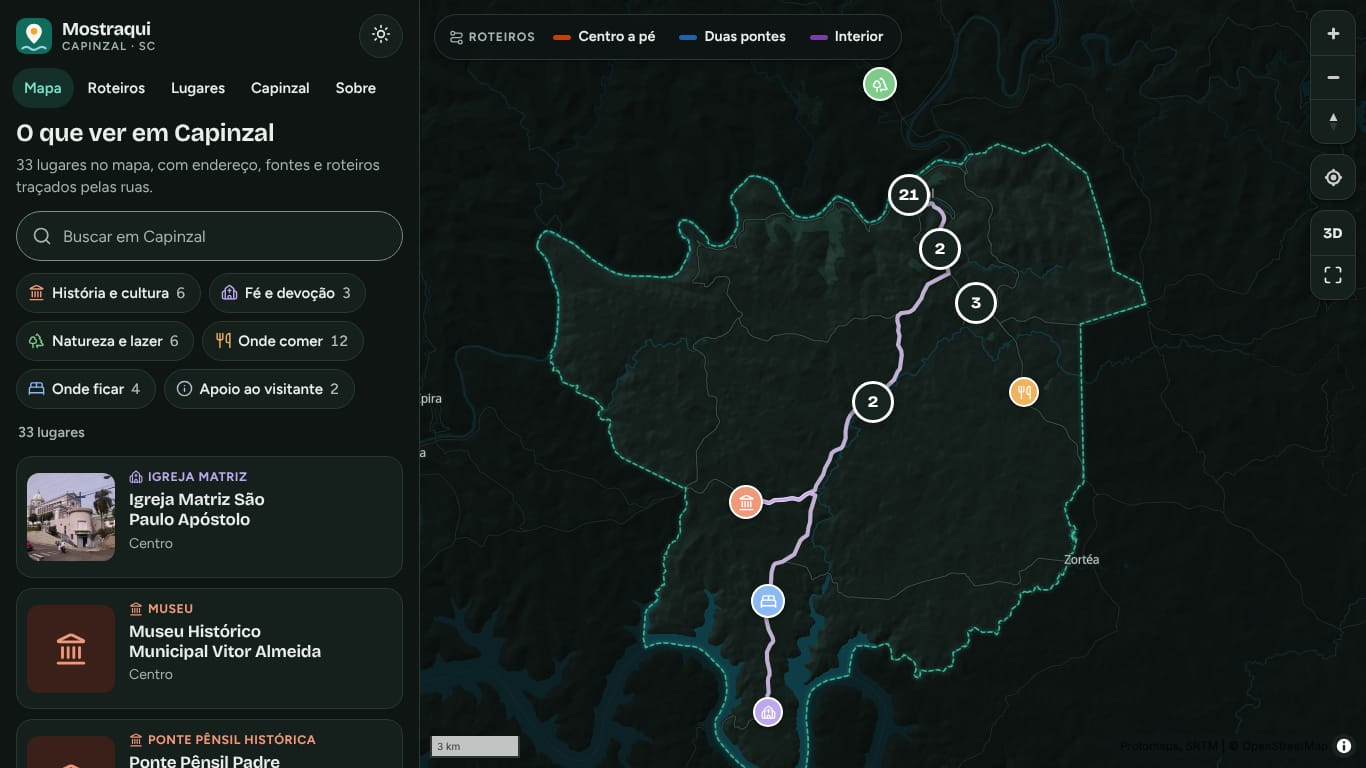
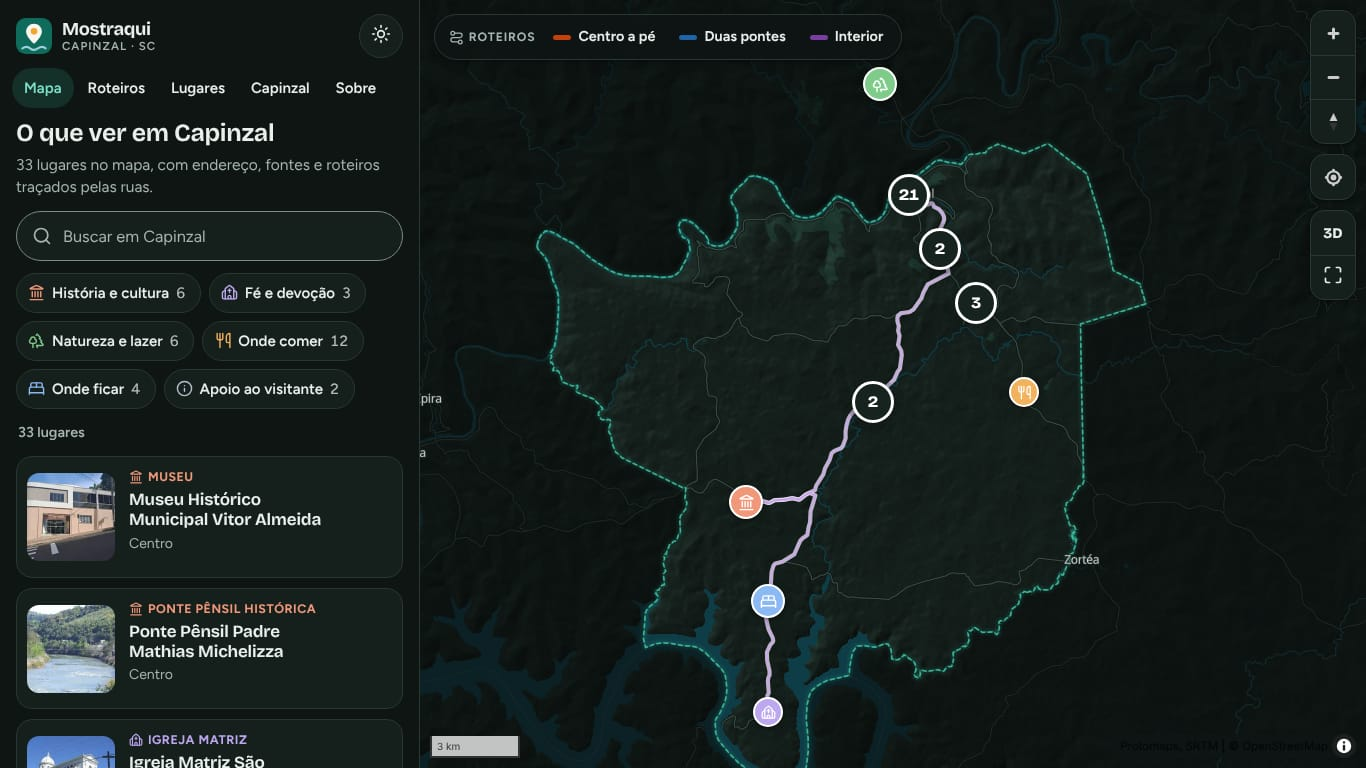
Guia independente, canal de contato, fotos livres e links para fotos no Google Maps
- o site passa a se declarar iniciativa particular, sem vínculo oficial com a
  Prefeitura (rodapé e página Sobre);
- contato@mostraqui.net como canal de correções (rodapé, Sobre e cada lugar);
- 8 fotos de uso livre do Wikimedia Commons em 6 lugares, com autoria e licença;
- lugares sem foto livre ganham o link "Ver fotos no Google Maps" (as fotos de
  terceiros não são copiadas para o site);
- modo sem internet: usa a versão já guardada de uma foto quando a pedida não
  está no aparelho;
- documentação e capturas atualizadas.

Claude-Session: https://claude.ai/code/session_01FvAM6oiWwzEPXf9aMvnGQy

Changed region(s): [[0.0, 0.7812, 0.246, 0.9062], [0.0, 0.5938, 0.246, 0.75], [0.0, 0.9375, 0.246, 1.0]]

diff --git a/scripts/sw-modelo.js b/scripts/sw-modelo.js
@@ -109,12 +109,37 @@ async function paginaDaRedeOuGuardada(pedido) {
 async function guardadoOuRede(pedido, nomeDoCache) {
   const guardado = await caches.match(pedido);
   if (guardado) return guardado;
-  const resposta = await fetch(pedido);
-  if (resposta.ok && resposta.status === 200) {
-    const cache = await caches.open(nomeDoCache);
-    cache.put(pedido, resposta.clone());
+  try {
+    const resposta = await fetch(pedido);
+    if (resposta.ok && resposta.status === 200) {
+      const cache = await caches.open(nomeDoCache);
+      cache.put(pedido, resposta.clone());
+    }
+    return resposta;
+  } catch (erro) {
+    // Sem internet e sem esta versão da foto: usa outra versão da mesma foto que já esteja guardada.
+    if (pedido.destination === 'image') {
+      const substituta = await outraVersaoDaFoto(new URL(pedido.url).pathname);
+      if (substituta) return substituta;
+    }
+    throw erro;
   }
-  return resposta;
+}
+
+/** As versões de uma foto têm o mesmo começo no nome: "ponte.AbC123_" + variante + extensão. */
+async function outraVersaoDaFoto(caminho) {
+  const prefixo = caminho.slice(0, caminho.lastIndexOf('_') + 1);
+  if (!prefixo.startsWith('/assets/') || prefixo === '/assets/') return null;
+  let melhor = null;
+  for (const nome of [CACHE_VISITADOS, CACHE_APP]) {
+    const cache = await caches.open(nome);
+    for (const chave of await cache.keys()) {
+      if (!new URL(chave.url).pathname.startsWith(prefixo)) continue;
+      const dados = await (await cache.match(chave)).blob();
+      if (!melhor || dados.size > melhor.size) melhor = dados;
+    }
+  }
+  return melhor ? new Response(melhor, { headers: { 'Content-Type': melhor.type || 'image/webp' } }) : null;
 }
 
 async function guardadoEAtualiza(pedido) {

diff --git a/src/styles/conteudo.css b/src/styles/conteudo.css
@@ -37,6 +37,8 @@
   text-align: center;
 }
 .sem-foto p { margin: 0; font-size: .9rem; font-weight: 600; }
+.sem-foto p + p { margin-top: 6px; }
+.sem-foto a { display: inline-block; padding: 4px 0; color: inherit; }
 
 .lugar__grade {
   display: grid;
@@ -67,7 +69,7 @@
 .galeria { display: grid; gap: 14px; grid-template-columns: repeat(auto-fit, minmax(min(100%, 260px), 1fr)); margin-top: 28px; }
 .galeria .foto img { aspect-ratio: 4 / 3; object-fit: cover; border-radius: var(--raio); }
 
-.conferido { display: flex; align-items: center; gap: .5em; margin: 0; color: var(--tinta-suave); font-size: .92rem; }
+.conferido { display: flex; align-items: flex-start; gap: .5em; margin: 0; color: var(--tinta-suave); font-size: .92rem; }
 .conferido .icone { color: var(--marca); }
 
 /* ---------- Cartões de roteiro ---------- */

diff --git a/src/lib/dados.ts b/src/lib/dados.ts
@@ -71,6 +71,12 @@ export function linkGoogleMaps(lugar: Lugar): string {
   return `https://www.google.com/maps/dir/?api=1&destination=${encodeURIComponent(destino)}`;
 }
 
+/** Busca do lugar no Google Maps, onde ficam as fotos publicadas por visitantes (o guia não as copia). */
+export function linkFotosGoogle(lugar: Lugar): string {
+  const cidade = lugar.municipio.includes('Capinzal') ? 'Capinzal' : lugar.municipio;
+  return `https://www.google.com/maps/search/?api=1&query=${encodeURIComponent(`${lugar.nome}, ${cidade} SC`)}`;
+}
+
 export function linkWaze(lugar: Lugar): string {
   const [lon, lat] = lugar.coordenadas;
   return `https://waze.com/ul?ll=${lat},${lon}&navigate=yes`;

diff --git a/src/styles/base.css b/src/styles/base.css
@@ -359,7 +359,7 @@ hr { border: 0; border-top: 1px solid var(--linha); margin: 2rem 0; }
 .rodape li + li { margin-top: .2em; }
 .rodape a { color: var(--tinta); }
 .rodape li a { display: inline-block; padding: 3px 0; }
-.rodape__lema { margin: 14px 0 0; max-width: 38ch; }
+.rodape__lema { margin: 14px 0 0; max-width: 40ch; }
 .rodape__nota { margin: 28px 0 0; padding-top: 20px; border-top: 1px solid var(--linha); font-size: .88rem; }
 
 /* Barra de abas no celular (como em um aplicativo). */

diff --git a/src/data/site.ts b/src/data/site.ts
@@ -6,6 +6,8 @@ export const site = {
   descricao:
     'Mapa turístico interativo de Capinzal (SC): lugares para visitar, onde comer, onde ficar e roteiros traçados pelas ruas. Funciona no celular, inclusive sem internet.',
   url: 'https://mostraqui.net',
+  // Canal para correções e sugestões.
+  contato: 'contato@mostraqui.net',
   corTema: '#0F6B5C',
   corFundo: '#FAF7F0',
   // Centro da cidade e área coberta pelo mapa próprio.

diff --git a/docs/PENDENCIAS.md b/docs/PENDENCIAS.md
@@ -76,21 +76,23 @@ se há atrativos listados só ali:
 
 ## 5. Fotos
 
-Só a Igreja Matriz tem foto publicada. As demais fotos livres já escolhidas (Ponte Pênsil, Museu Vitor
-Almeida, Terminal Rodoviário, Centro Educacional, Prefeitura) não puderam ser baixadas no dia do
-levantamento, porque o Wikimedia Commons limitou os acessos. Para baixá-las:
+Seis lugares têm foto de uso livre, do Wikimedia Commons: Igreja Matriz, Ponte Pênsil, Museu Vitor
+Almeida, Terminal Rodoviário, Centro Educacional e Prefeitura. A foto da Ponte Pênsil é de 2008,
+anterior à reforma de 2018.
 
-```bash
-npm run fotos
-```
+Para os outros lugares não há foto de uso livre. Caminhos possíveis: fotografar os lugares (fotos
+próprias podem ser usadas à vontade), pedir fotos a moradores e estabelecimentos com autorização por
+escrito, ou publicar fotos no Wikimedia Commons com licença livre. Enquanto isso, cada página tem o
+link "Fotos no Google Maps".
 
-Para os outros lugares não há foto de uso livre. A Secretaria pode ceder fotos próprias (com
-autorização por escrito do autor) ou publicar fotos no Wikimedia Commons com licença livre.
+## 6. Decisões já tomadas (19/11/2026)
 
-## 6. Decisões de quem responde pelo guia
-
-- **Canal para correções:** definir um e-mail ou formulário e incluir na página "Sobre".
-- **Identificação institucional:** o site não usa brasão nem se apresenta como canal oficial da
-  Prefeitura. Se for adotado oficialmente, incluir a identificação e os créditos.
+- **Canal para correções:** `contato@mostraqui.net`, publicado no rodapé, na página "Sobre" e em cada
+  lugar. **Conferir se essa caixa de e-mail existe na hospedagem** (cPanel → Contas de e-mail); sem
+  ela, as mensagens voltam.
+- **Identificação:** o guia é uma iniciativa particular e independente, não oficial. O rodapé e a
+  página "Sobre" dizem isso, e o site não usa brasão nem símbolos do município.
+- **Fotos do Google:** não são copiadas para o site, porque pertencem a quem as publicou. Cada lugar
+  tem o link "Fotos no Google Maps", que abre a ficha do lugar no aplicativo do Google.
 - **Roteiros:** os três roteiros são sugestões do guia. Quando o município definir a rota oficial
-  (em planejamento desde 2023, com INCOTUR e Sebrae), substituir ou marcar como oficial.
+  (em planejamento desde 2023, com INCOTUR e Sebrae), vale incluí-la e marcá-la como oficial.

diff --git a/docs/ESTADO-DA-ENTREGA.md b/docs/ESTADO-DA-ENTREGA.md
@@ -20,9 +20,9 @@
 
 | Verificação | Resultado |
 | --- | --- |
-| `npm run conferir` | 33 lugares, 3 roteiros, 105 fontes distintas, sem erros |
+| `npm run conferir` | 33 lugares, 3 roteiros, 105 fontes distintas, 8 fotos com licença registrada, sem erros |
 | `npm test` | 15 testes unitários aprovados (distâncias, formatação, busca sem acentos, contraste das cores) |
-| `npm run test:navegador` (Playwright + axe-core 4.x, Chromium) | 28 de 28 verificações: computador, celular (Pixel 7), tema escuro, teclado, alvos de toque, axe sem violações WCAG A/AA em todos os tipos de página, nenhum erro de console, nenhum bloqueio de CSP, nenhum pedido a terceiros, modo sem internet |
+| `npm run test:navegador` (Playwright + axe-core 4.x, Chromium) | 29 de 29 verificações: computador, celular (Pixel 7), tema escuro, teclado, alvos de toque, axe sem violações WCAG A/AA em todos os tipos de página, nenhum erro de console, nenhum bloqueio de CSP, nenhum pedido a terceiros, modo sem internet |
 | Apache 2.4.58 com o `.htaccess` do projeto | Aprovado (ver [IMPLANTACAO.md](IMPLANTACAO.md)) |
 | Ensaio da implantação por FTPS | Aprovado em 7 cenários (ver [IMPLANTACAO.md](IMPLANTACAO.md)) |
 | GitHub Actions, fluxo *Testes* (dados, testes unitários, montagem e navegador nos servidores do GitHub) | Aprovado na execução nº 27 (commit `3ad5731`) |
@@ -41,8 +41,8 @@
 
 ## Limitações conhecidas
 
-- **Fotos:** só 1 dos 33 lugares tem foto. Há fotos livres escolhidas para mais 5, que não puderam ser
-  baixadas no dia (limite de acessos do Wikimedia Commons). Ver [PENDENCIAS.md](PENDENCIAS.md).
+- **Fotos:** 6 dos 33 lugares têm foto de uso livre (8 fotos do Wikimedia Commons). Os demais mostram um
+  aviso e o link "Fotos no Google Maps". Ver [PENDENCIAS.md](PENDENCIAS.md).
 - **10 estabelecimentos "a confirmar"** e 14 posições aproximadas, todas sinalizadas no site.
 - **Poucos atrativos de natureza e do interior:** não há fonte pública para cascatas, mirantes, trilhas
   ou propriedades com visitação.

diff --git a/README.md b/README.md
@@ -22,6 +22,8 @@ instalado como aplicativo e abre **mesmo sem internet**.
 - **Página da cidade** com dados do IBGE, história, acessos e calendário de eventos, tudo com fonte.
 - **Modo sem internet:** depois da primeira visita, as páginas e o mapa ficam guardados no aparelho.
 - **Privacidade:** sem cadastro, sem cookies e sem rastreamento.
+- **Guia independente:** iniciativa particular, sem vínculo oficial com a Prefeitura. Correções:
+  `contato@mostraqui.net`.
 - **Acessibilidade:** meta WCAG 2.2 nível AA, com lista equivalente ao mapa, uso por teclado e
   contrastes calculados.
 
